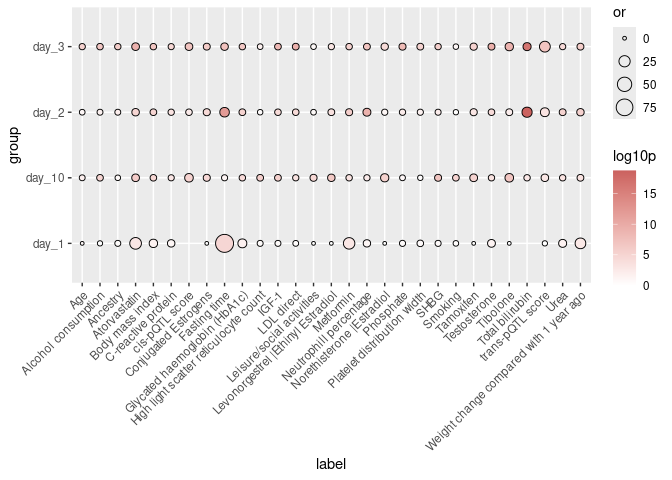
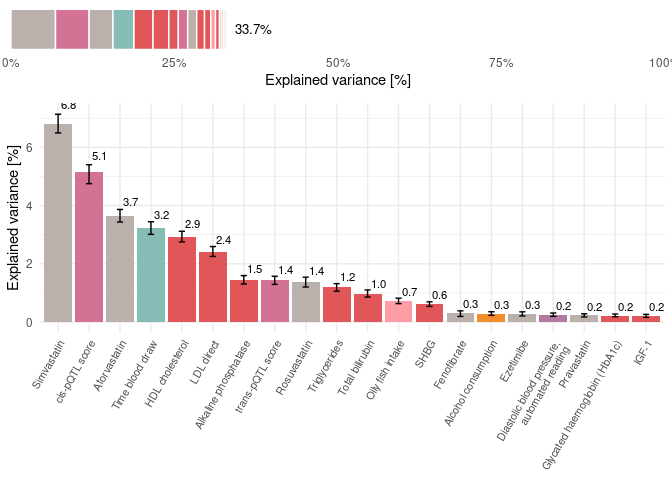
render readme

diff --git a/README.md b/README.md
@@ -46,11 +46,7 @@ GitHub:
 
 ``` r
 library(remotes)
-#install_github("comp-med/prodente")
-```
-
-``` r
-library(patchwork)
+install_github("comp-med/prodente")
 ```
 
 ## Getting Started
@@ -188,7 +184,7 @@ enrichment_plot <- plot_enrichment_results(
 )
 ```
 
-<img src="man/figures/README-unnamed-chunk-7-1.png" width="100%" />
+<img src="man/figures/README-unnamed-chunk-6-1.png" width="100%" />
 
 ## Plotting Explained Variance for a Single Protein
 
@@ -200,7 +196,7 @@ chart shows the cumulative explained variance.
 varience_plot <- plot_variance_explained(protein_id="pcsk9", pop="All")
 ```
 
-<img src="man/figures/README-unnamed-chunk-8-1.png" width="100%" />
+<img src="man/figures/README-unnamed-chunk-7-1.png" width="100%" />
 
 ## Accessing the Data
 
